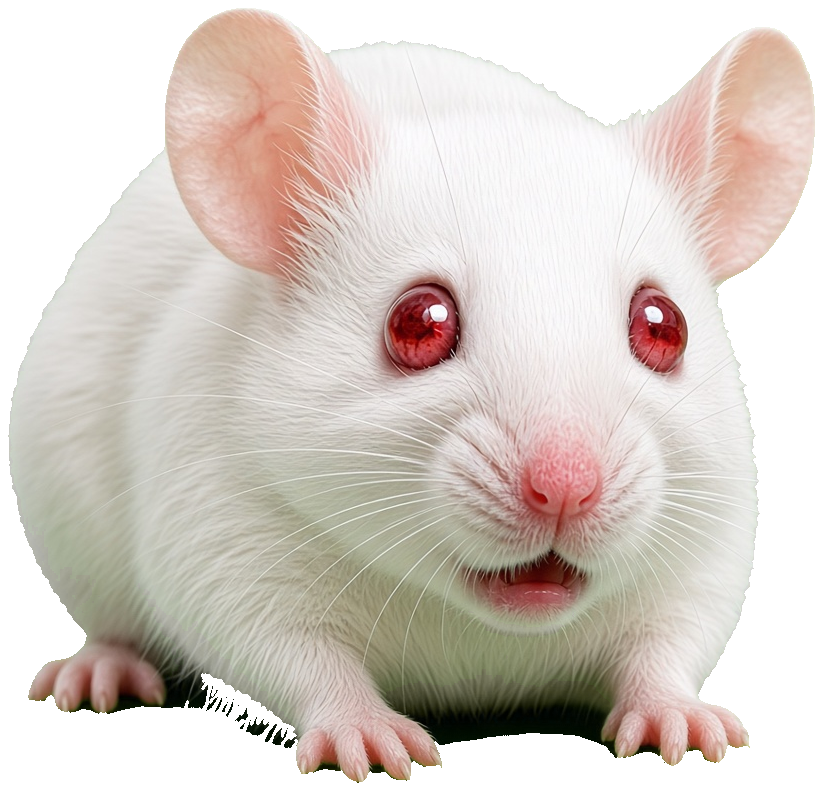
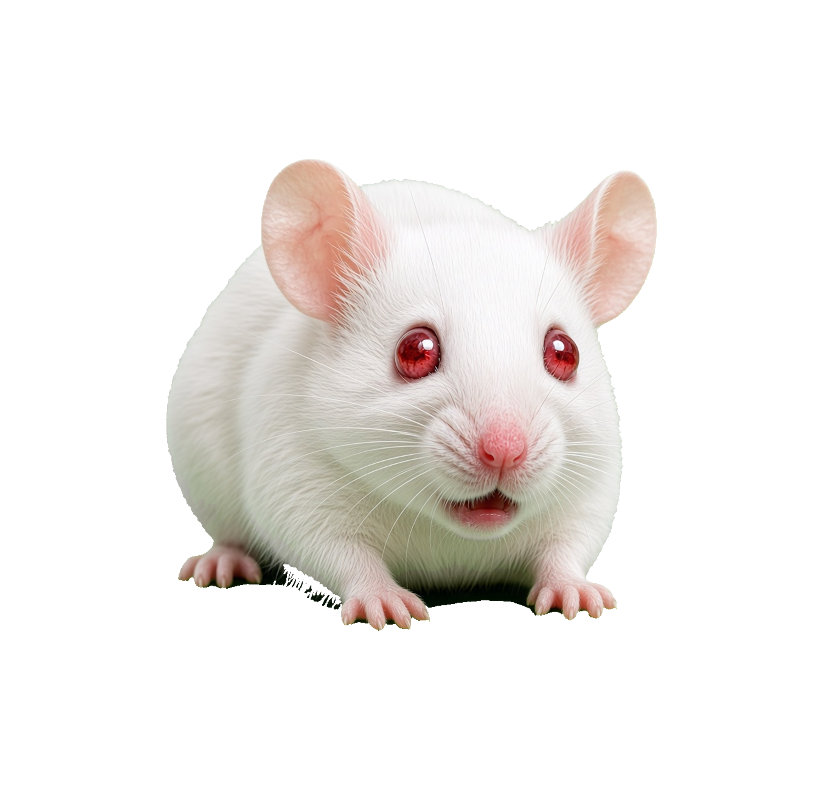
Replace mouse assets with new numbered set, new play sequence
New assets emailed 2026-09-20 19:08 ("New Mouse Assets"), numbered
001-005 (posture_up, posture_up_mid, idle, posture_down_mid,
posture_down respectively) - replaces posture_up/posture_up_mid/
posture_down with new versions; idle and posture_down_mid were
byte-identical to what was already there.

Sequence per spec: 3,2,1,1,1,2,3,3,3,4,5,5,5,4,3,3 at 300ms/tick,
looping. Known issue flagged by the user before sending these: a
scaling/proportion mismatch between frames (each cropped tight to its
own content at a different aspect ratio) - not addressed here, may
still be present in this asset set too.

diff --git a/frontend/mouse.js b/frontend/mouse.js
@@ -5,27 +5,30 @@
   if (!img) return;
 
   var BASE = "images/mouse/";
-  var MID_MS = 300;
-  var OTHER_MS = 600;
+  var TICK_MS = 300;
 
-  var SEQUENCE = [
-    { frame: "idle.png", ms: OTHER_MS },
-    { frame: "posture_down_mid.png", ms: MID_MS },
-    { frame: "posture_down.png", ms: OTHER_MS },
-    { frame: "posture_down_mid.png", ms: MID_MS },
-    { frame: "idle.png", ms: OTHER_MS },
-  ];
+  // Sequence numbers per the new asset set (2026-09-20, "New Mouse Assets"):
+  // 1=posture_up, 2=posture_up_mid, 3=idle, 4=posture_down_mid, 5=posture_down
+  var FRAME_BY_NUMBER = {
+    1: "posture_up.png",
+    2: "posture_up_mid.png",
+    3: "idle.png",
+    4: "posture_down_mid.png",
+    5: "posture_down.png",
+  };
+
+  var SEQUENCE = [3, 2, 1, 1, 1, 2, 3, 3, 3, 4, 5, 5, 5, 4, 3, 3];
 
   function setFrame(name) {
     img.src = BASE + name;
   }
 
   function step(i) {
-    var entry = SEQUENCE[i % SEQUENCE.length];
-    setFrame(entry.frame);
+    var n = SEQUENCE[i % SEQUENCE.length];
+    setFrame(FRAME_BY_NUMBER[n]);
     setTimeout(function () {
       step(i + 1);
-    }, entry.ms);
+    }, TICK_MS);
   }
 
   step(0);
